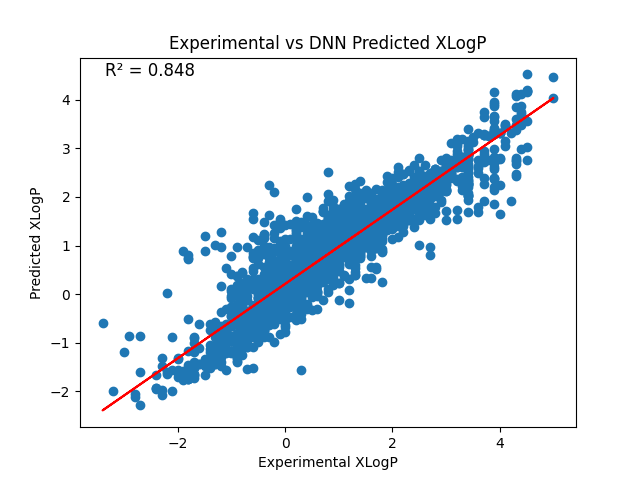
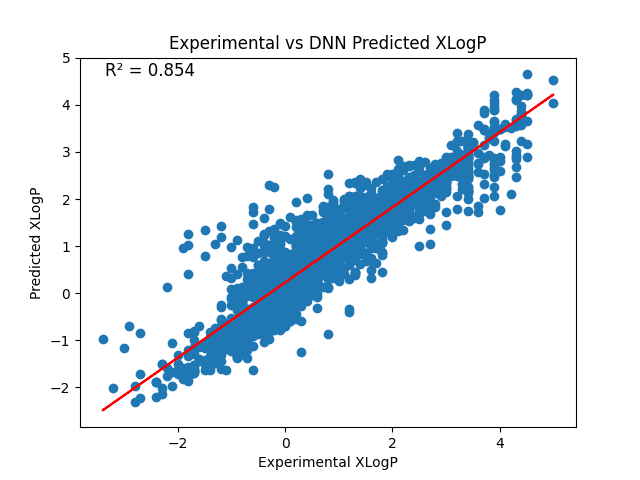
updating the readme file

diff --git a/src/dnn.py b/src/dnn.py
@@ -1,6 +1,6 @@
 
 import numpy as np
-from sklearn.metrics import r2_score, mean_absolute_error
+from sklearn.metrics import r2_score, mean_absolute_error, mean_squared_error
 import torch
 import torch.nn as nn
 import torch.optim as optim
@@ -67,7 +67,8 @@ def evaluate_model(model_sequential, X_train_tensor, X_test_tensor, y_train_tens
         print("\nNeural network model evaluation:")
         print("Train MAE:", mean_absolute_error(y_train_tensor.numpy(), train_predictions.numpy()))
         print("Test MAE:", mean_absolute_error(y_test_tensor.numpy(), test_predictions.numpy()))
-        print("MSE:", test_loss.item())
+        print("Train MSE:", mean_squared_error(y_train_tensor.numpy(), train_predictions.numpy()))
+        print("Test MSE:", test_loss.item())
         print("RMSE:", np.sqrt(test_loss.item()))
         print("R²:", r2_score(y_test_tensor.numpy(), test_predictions.numpy()))
 

diff --git a/README.md b/README.md
@@ -61,20 +61,20 @@ Finally, the molecular descriptors calculated with RDKit are compared with the r
 
 ## Predictive Modeling: Linear Regression and DNN
 
-To investigate whether predictive performance could be improved, a linear regression model and a deep neural network were trained using the available data. The linear regression model achieved an R² of 0.80, while the DNN further improved the performance to an R² of 0.84.
+To investigate whether predictive performance could be improved, a linear regression model and a deep neural network were trained using the available data. The linear regression model achieved an R² of 0.80, while the DNN further improved the performance to an R² of 0.85.
 
 ### Model Performance Results
 
 | Metric | Linear Regression | Deep Neural Network |
 |--------|------------------|---------------------|
-| **Train MAE** | 0.345 | 0.117 |
-| **Test MAE** | 0.435 | 0.348 |
-| **Train MSE** | 0.215 | - |
-| **Test MSE** | 0.340 | 0.261 |
-| **RMSE** | 0.583 | 0.511 |
-| **R²** | **0.802** | **0.848** |
+| **Train MAE** | 0.345 | 0.073 |
+| **Test MAE** | 0.435 | 0.330 |
+| **Train MSE** | 0.215 | 0.019 |
+| **Test MSE** | 0.340 | 0.250 |
+| **RMSE** | 0.583 | 0.500 |
+| **R²** | **0.802** | **0.854** |
 
-The DNN model outperformed Linear Regression across all metrics, achieving the highest R² score of 0.848 and the lowest test error (RMSE: 0.511). Both models significantly improved upon the baseline RDKit calculation (R² = 0.553).
+The DNN model outperformed Linear Regression across all metrics, achieving the highest R² score of 0.854 and the lowest test error (RMSE: 0.500). Both models significantly improved upon the baseline RDKit calculation (R² = 0.553).
 
 ---
 
